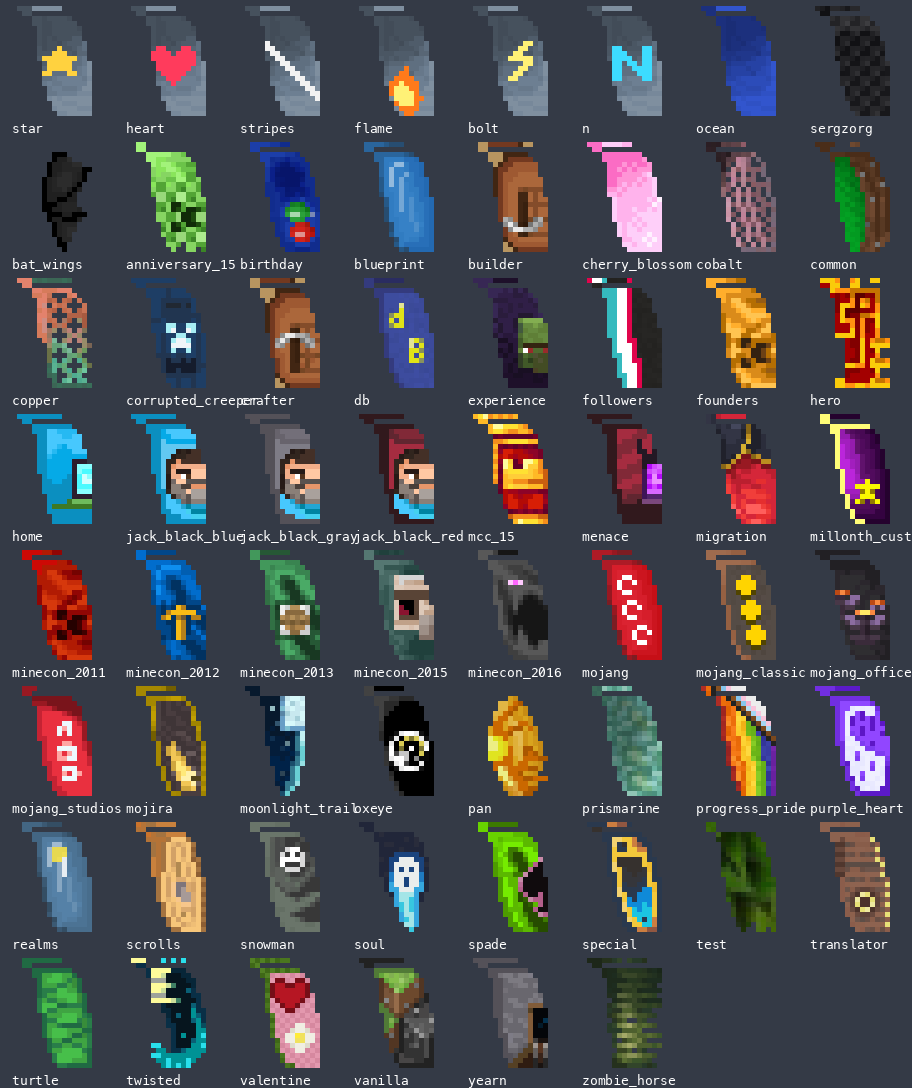
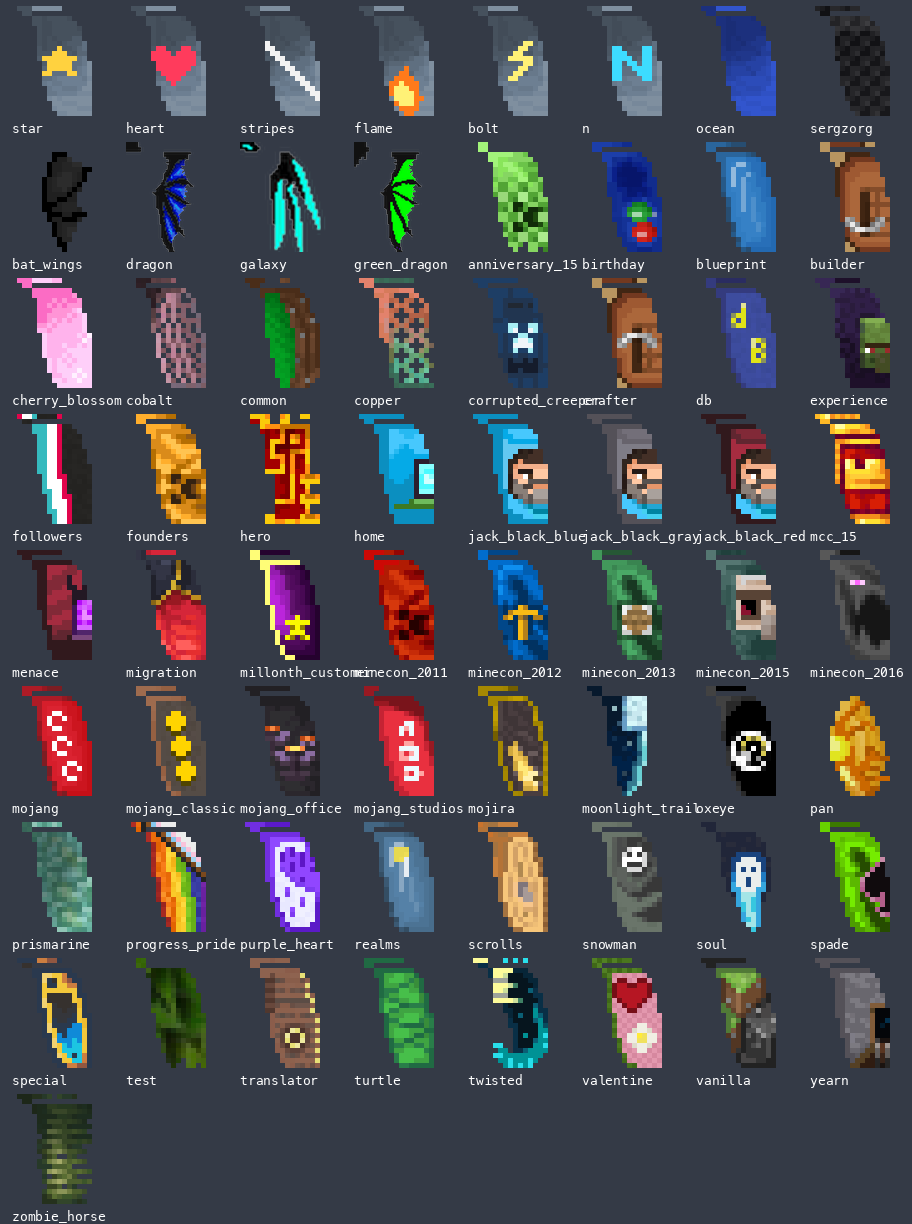
Add green_dragon, galaxy and dragon decals

diff --git a/THIRD_PARTY.md b/THIRD_PARTY.md
@@ -10,3 +10,5 @@
   `prepare_upload.sh`.
 - **Bat wings skin for Elytra by Doctor_CZ** — `bat_wings` (wing texture and icon, unmodified), from the
   original resource pack. No licence was supplied with it; included with credit for private use.
+- **green_dragon, galaxy, dragon** — wing textures downloaded by the Realm owner (authors unknown),
+  included unmodified for private use. If you are the author and want credit or removal, open an issue.
